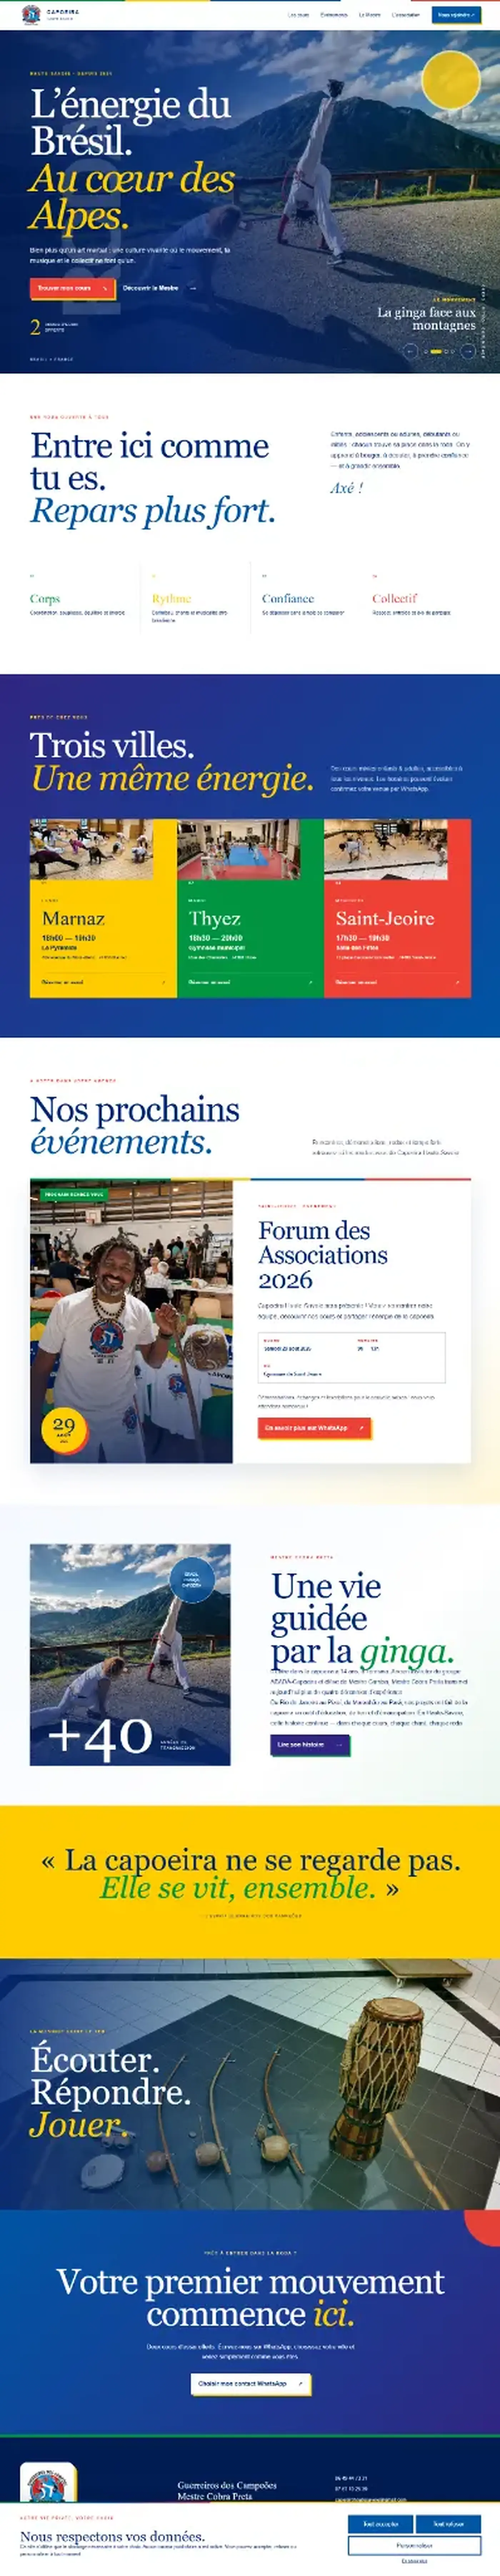
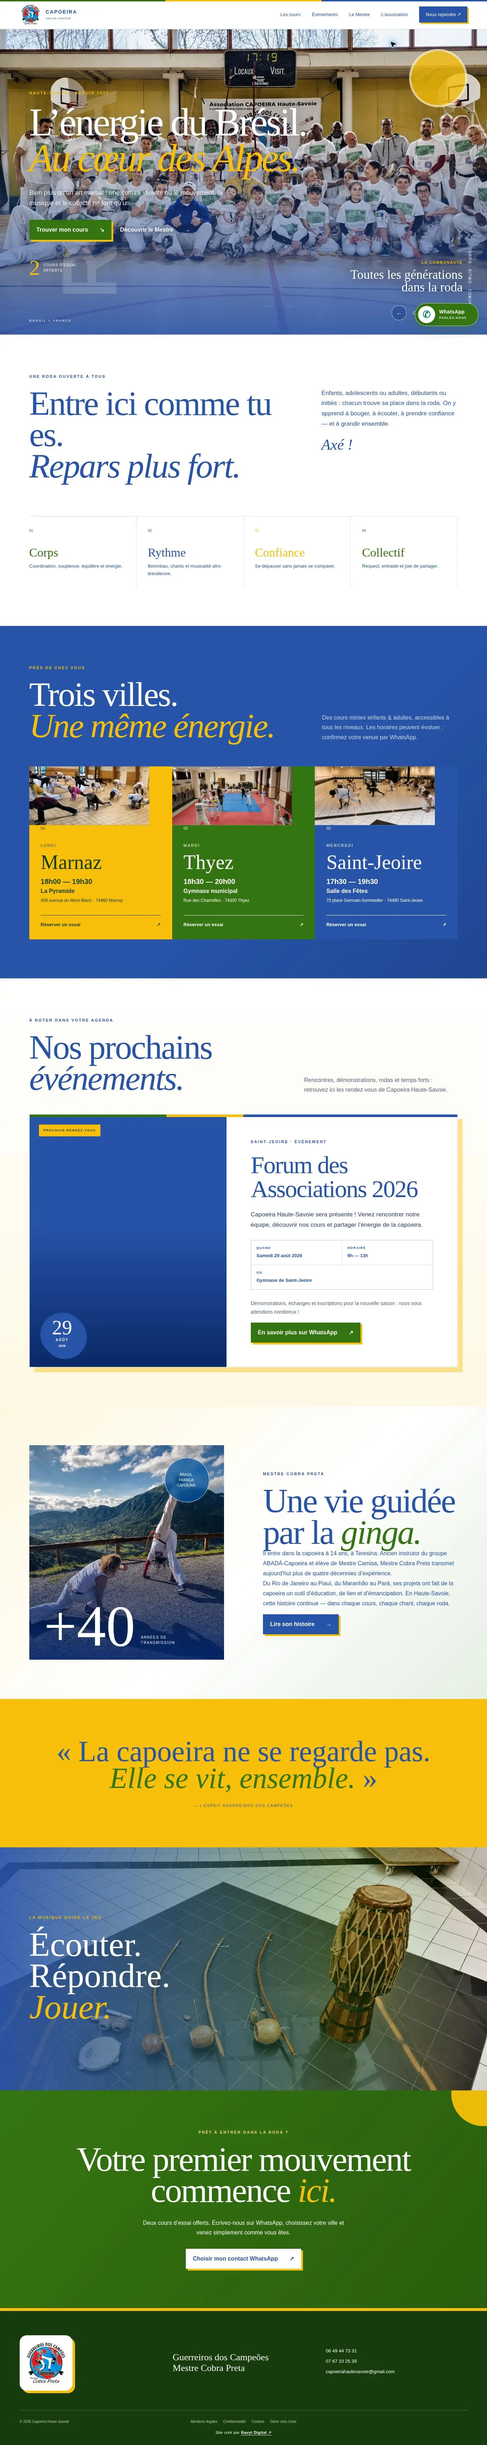
Atualiza portfólio com Capoeira Haute-Savoie

diff --git a/app/page.tsx b/app/page.tsx
@@ -48,34 +48,10 @@ const services = [
 
 const projects = [
   {
-    title: "Odonto Premium",
-    category: "Site institucional",
-    href: "https://site-odonto-premium.ravytdigital.workers.dev/",
-    image: "/projects/odonto-premium.webp",
-  },
-  {
     title: "Capoeira Haute-Savoie",
     category: "Site institucional",
     href: "https://site-capoeira-haute-savoie.ravytdigital.workers.dev/",
     image: "/projects/capoeira-haute-savoie.webp",
-  },
-  {
-    title: "Excel no Agro",
-    category: "Página de vendas",
-    href: "https://site-excel-no-agro.ravytdigital.workers.dev/",
-    image: "/projects/excel-no-agro.webp",
-  },
-  {
-    title: "Seja Indispensável!",
-    category: "Página de vendas",
-    href: "https://site-seja-indispensavel.ravytdigital.workers.dev/",
-    image: "/projects/seja-indispensavel.webp",
-  },
-  {
-    title: "Ravyt Motos",
-    category: "Catálogo digital",
-    href: "https://site-ravyt-capacetes.ravytdigital.workers.dev/",
-    image: "/projects/ravyt-motos.webp",
   },
 ];
 
@@ -279,10 +255,10 @@ export default function Home() {
         <section className="work" id="projetos">
           <div className="work-glow" aria-hidden="true" />
           <div className="shell work-heading">
-            <div><p className="section-kicker section-kicker-light">Sites criados pela Ravyt</p><span className="section-index section-index-light">01 — 05</span></div>
+            <div><p className="section-kicker section-kicker-light">Sites criados pela Ravyt</p><span className="section-index section-index-light">01 — 01</span></div>
             <div className="work-heading-copy">
-              <h2>Sites institucionais, páginas de vendas e <em>catálogos digitais.</em></h2>
-              <p>Os exemplos abaixo mostram projetos desenvolvidos para diferentes serviços, públicos e objetivos comerciais.</p>
+              <h2>Site institucional com identidade, conteúdo e <em>experiência responsiva.</em></h2>
+              <p>O projeto abaixo apresenta o trabalho desenvolvido para a Capoeira Haute-Savoie, da estrutura visual à navegação completa.</p>
             </div>
           </div>
           <div className="projects-viewport shell">
